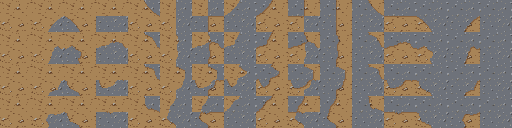
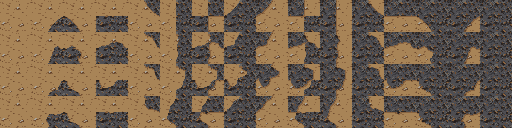
LANE DONE: lane/a-havora-quarry (quarry floor reads as worn granite; mine-yard dirt edges organic) Floor: gravel_rock/earth_gravel lower fill = r5 granite one step darker (no blue) + chips from PixelLab 65e9d685 (palette-born, native; r1 refused; 30 subscription gens, note 02-note.json); havora_grav

diff --git a/src/data/world/town/ground.js b/src/data/world/town/ground.js
@@ -50,8 +50,8 @@ export const GROUND_ROWS = Object.freeze([
   '..................................||....==..==========......============..==.........=========================...~~~~~~........:::::::::::::::::::::::::::::============,,,,,,,^^^,,,,,,,,,,^^^.',
   '..................................||....==..==========......============..==.........=========================...~~~~~.........:::::::::::::::::::::::::::::============,,,,,,,,,,,,,,,,,,,,^^^.',
   '..................................||....==..==========......============..==.......===========================..~~~~~~.........:::::::::::::::::::::::::::::============,,,,,,,,,,,,,,,,,,,^^^..',
-  '..................................||....==..==========......============..==.......===========================..~~~~~~..........::::::::::::::::::::::::::::====^^^^^==^^,,,,,,,,^^^,,,,,,,^^...',
-  '..................................||....==........==........============..==.......===========================..~~~~~~~......::::::::::::::::::::::::::::::::=.^^^^^^^^^^^,,,,,^^^^^^,,,,,,^^...',
+  '..................................||....==..==========......============..==.......===========================..~~~~~~..........::::::::::::::::::::::::::::====^==^^==^^,,,,,,,,^^^,,,,,,,^^...',
+  '..................................||....==........==........============..==.......===========================..~~~~~~~......::::::::::::::::::::::::::::::::=.^^^=^^^^^^^,,,,,^^^^^^,,,,,,^^...',
   '..................................||....==........==........============..==.......===========================..~~~~~~~......::::::::::::::::::::::::::::::::=...^^^^^^^^,,,,,,,^^^,,,,,,,,^^...',
   '..................................==....==........==..........==..........==.................=================..~~~~~~.......::::::::::::::::::::::::::::::::===============,,,,,,,,,,,,^^^^^...',
   '..................................==....==........==..........==..........==.................=================..~~~~~~........:::::::::::::::::::::::::::::::===============,,,,,,,,,,,,,^^^^^..',

diff --git a/src/data/world/town/sites.js b/src/data/world/town/sites.js
@@ -153,7 +153,9 @@ export const BLEND = Object.freeze({
        a band two cells wide, so its own side need run only one cell behind (deep 2) */
     Object.freeze(['earth', 'flagstone', 0.56, 0.42, 2]), Object.freeze(['grass', 'flagstone', 0.56, 0.42, 2]),
     /* the beach wanders into the meadow and the dirt as the dirt does (lane/a-havora-seams-2) */
-    Object.freeze(['grass', 'beach']), Object.freeze(['earth', 'beach'])]), spill: 0.62, bite: 0.38, scale: 2.6, deep: 4 }),
+    Object.freeze(['grass', 'beach']), Object.freeze(['earth', 'beach']),
+    /* the mine yard's dirt frays into the quarry's gravel (lane/a-havora-quarry: it met it on a straight cut below the mine mouth) */
+    Object.freeze(['earth', 'gravel'])]), spill: 0.62, bite: 0.38, scale: 2.6, deep: 4 }),
 });
 
 /* looping effects the map places (map-compile.js `ambient`): the Great Hearth's fire over its firebox,

diff --git a/src/data/world/maps/town_common.js b/src/data/world/maps/town_common.js
@@ -74,6 +74,8 @@ export default Object.freeze({
   start: first(ACTIVITY_STATIONS.arrival),
   /* 29d47245 -> c9842f06: the mountain's edge redrawn in town/ground.js (lane/a-havora-rock 2026-11-17: bays and spurs of rock a cell or two
      deep where it ran on whole-tile rulers, and its two tiers into terraces; no stand, door, exit, way (plan.js WAYS) or placed thing moved, every open
-     cell still reached; 46 rock cells opened, 55 open cells taken by rock) */
-  maskHash: 'c9842f06',
+     cell still reached; 46 rock cells opened, 55 open cells taken by rock)
+     c9842f06 -> 9465b065: three rock cells under the mine road opened into the dirt (lane/a-havora-quarry: the road met the rock on a straight
+     cut below the mine yard); no way, stand or placed thing moved */
+  maskHash: '9465b065',
 });
